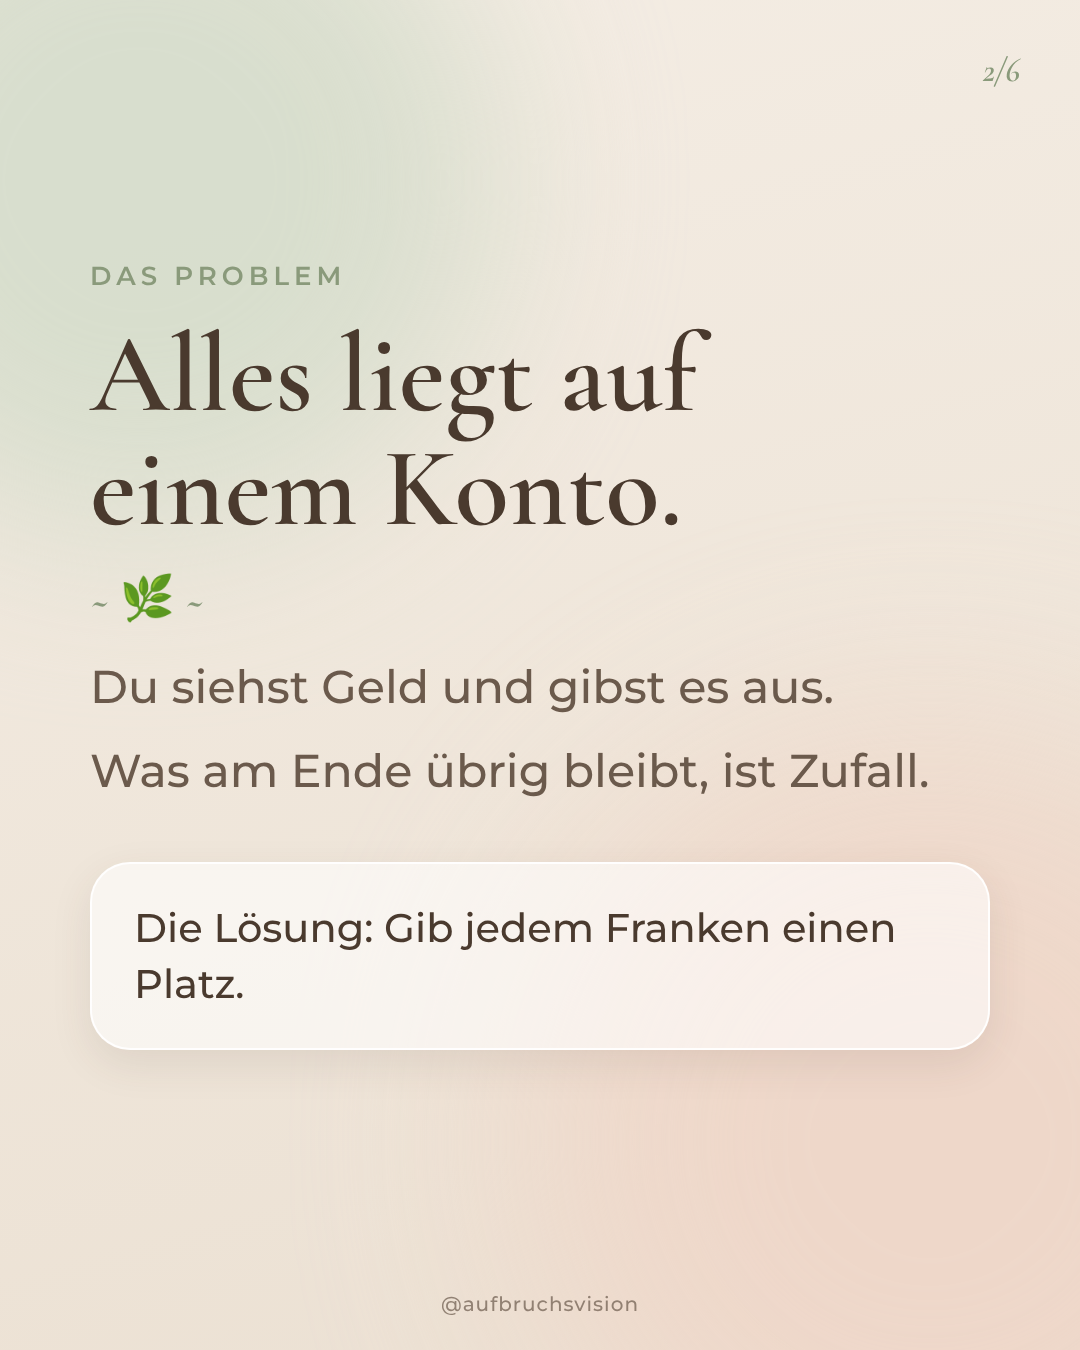
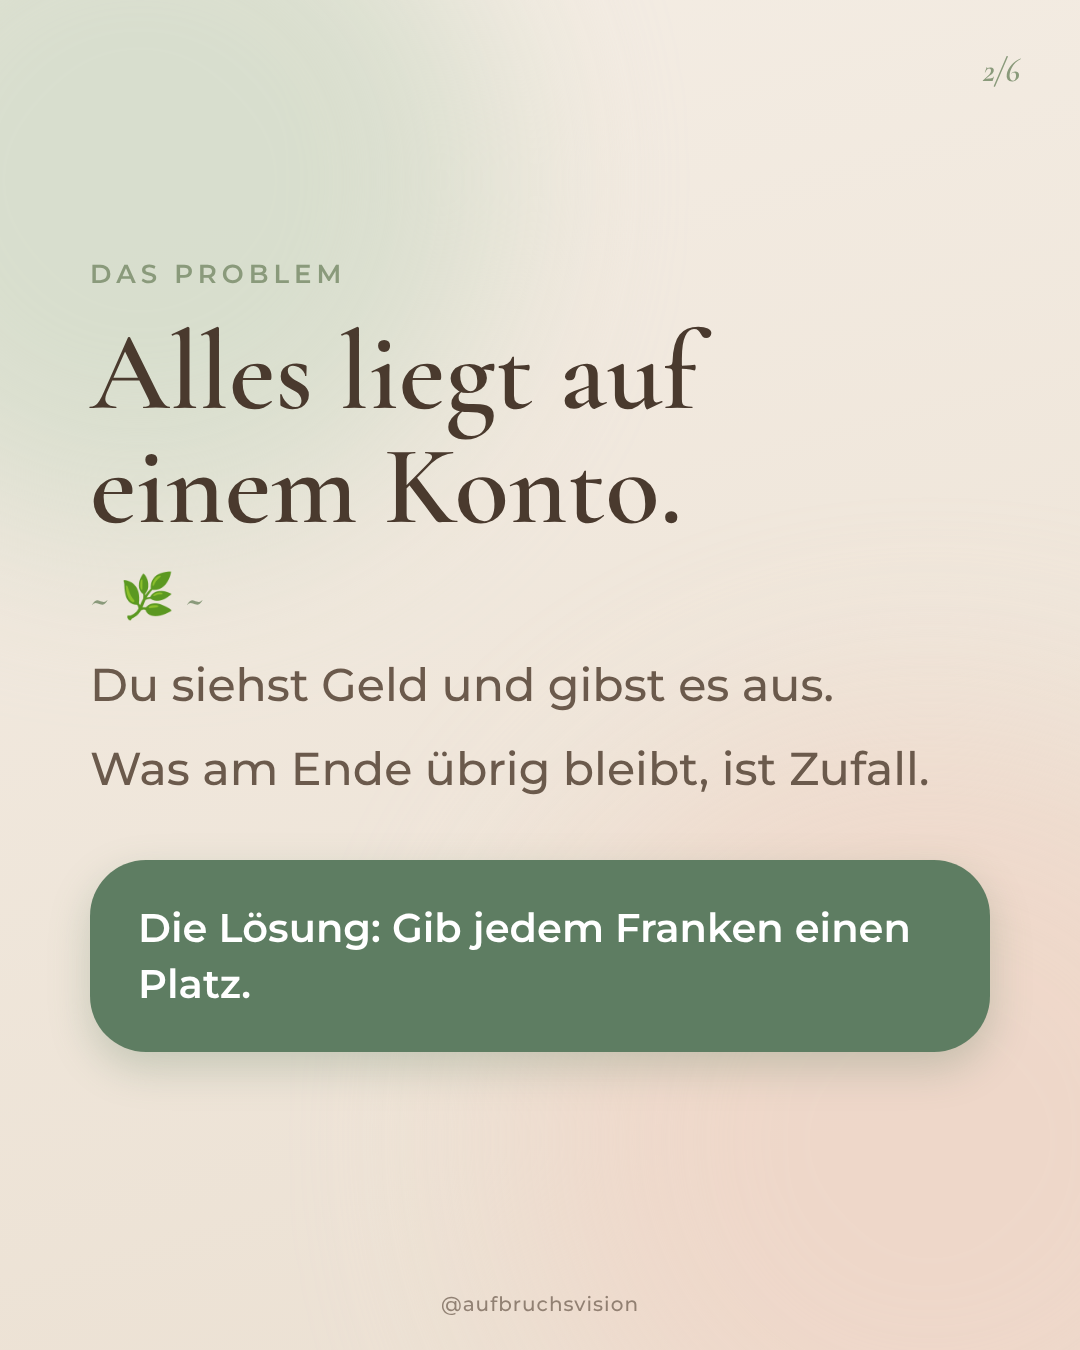
Weicher Stil: Foto im Blazer, runde sanftgrüne Tipp-Karten
Claude-Session: https://claude.ai/code/session_01GXNWXbXvS6wgjrcxeVLg42

diff --git a/remotion/src/WeichKarussell.tsx b/remotion/src/WeichKarussell.tsx
@@ -6,12 +6,13 @@ import { AbsoluteFill, Img, staticFile } from "remotion";
 import type { FinanzProps } from "./FinanzKarussell";
 
 // Stil «weich & natürlich» (4:5): warmer Sand, Salbei & Rosé als weiche Formen,
-// elegante Serifenschrift, Foto am See im Bogen. Nutzt dieselben Texte wie Stil A.
+// elegante Serifenschrift, runde grüne Tipp-Karten, Foto im Blazer im Bogen. Nutzt dieselben Texte wie Stil A.
 const SERIF = "'Cormorant Garamond', Georgia, serif";
 const SANS = "Montserrat, sans-serif";
 const BRAUN = "#4a3a2e";
 const TEXT = "#6b5a4c";
 const SALBEI = "#8a9a7b";
+const GRUEN = "#5e7d62"; // sanftes Grün für Tipp-Karten und Knöpfe
 
 // weiche, unscharfe Farbflecken im Hintergrund
 const Hintergrund: React.FC = () => (
@@ -28,12 +29,12 @@ const Ranke: React.FC = () => <div style={{ fontFamily: SERIF, fontSize: 44, col
 
 const Knopf: React.FC<{ text?: string }> = ({ text }) =>
   text ? (
-    <div style={{ fontFamily: SANS, fontWeight: 600, fontSize: 32, color: BRAUN, background: "rgba(255,255,255,0.65)", border: "2px solid rgba(138,154,123,0.5)", padding: "18px 36px", borderRadius: 999, display: "inline-block" }}>
+    <div style={{ fontFamily: SANS, fontWeight: 600, fontSize: 32, color: "white", background: GRUEN, boxShadow: "0 10px 26px rgba(94,125,98,0.3)", padding: "20px 40px", borderRadius: 999, display: "inline-block" }}>
       {text}
     </div>
   ) : null;
 
-// Foto am See in einem Bogen (oben rund), weich umrandet
+// Foto im Blazer in einem Bogen (oben rund), weich umrandet
 const Bogenfoto: React.FC<{ breite: number; hoehe: number; style?: React.CSSProperties }> = ({ breite, hoehe, style }) => (
   <div
     style={{
@@ -47,11 +48,9 @@ const Bogenfoto: React.FC<{ breite: number; hoehe: number; style?: React.CSSProp
       ...style,
     }}
   >
-    {/* Foto 1080×1920, ich sitze bei etwa 72 % / 74 %: doppelt so breit wie der Bogen, so verschoben, dass ich mittig unten sitze */}
-    <Img
-      src={staticFile("foto-hocke.jpg")}
-      style={{ position: "absolute", width: breite * 2, height: (breite * 2 * 1920) / 1080, left: breite / 2 - 0.72 * breite * 2, top: hoehe * 0.56 - (0.74 * breite * 2 * 1920) / 1080 }}
-    />
+    {/* Freisteller im Blazer (701×1024) auf weichem Salbei-Rosé-Verlauf, Gesicht im oberen Drittel */}
+    <div style={{ position: "absolute", inset: 0, background: "linear-gradient(180deg, #dfe6d6 0%, #f0ddd0 100%)" }} />
+    <Img src={staticFile("foto-blazer.png")} style={{ position: "absolute", width: breite * 1.2, left: -breite * 0.1, top: hoehe * 0.07 }} />
   </div>
 );
 
@@ -70,7 +69,7 @@ export const WeichKarussell: React.FC<FinanzProps> = ({ art, kicker, zahl, titel
     return (
       <AbsoluteFill>
         <Hintergrund />
-        <Bogenfoto breite={titelFolie ? 430 : 330} hoehe={titelFolie ? 620 : 430} style={{ right: titelFolie ? 70 : 60, bottom: titelFolie ? 120 : 110 }} />
+        <Bogenfoto breite={titelFolie ? 430 : 400} hoehe={titelFolie ? 620 : 540} style={{ right: titelFolie ? 70 : 60, bottom: titelFolie ? 120 : 110 }} />
         <div style={{ position: "absolute", left: 80, top: 120, width: titelFolie ? 900 : 920 }}>
           <Kicker text={kicker} />
           <div style={{ fontFamily: SERIF, fontWeight: 600, fontSize: titelFolie ? 108 : 92, lineHeight: 1.02, color: BRAUN, width: titelFolie ? 860 : 900 }}>{titel}</div>
@@ -109,15 +108,14 @@ export const WeichKarussell: React.FC<FinanzProps> = ({ art, kicker, zahl, titel
             style={{
               marginTop: 60,
               fontFamily: SANS,
-              fontWeight: 500,
+              fontWeight: 600,
               fontSize: 40,
               lineHeight: 1.4,
-              color: BRAUN,
-              background: "rgba(255,255,255,0.6)",
-              border: "2px solid rgba(255,255,255,0.9)",
-              boxShadow: "0 14px 40px rgba(74,58,46,0.1)",
-              padding: "36px 42px",
-              borderRadius: 40,
+              color: "white",
+              background: GRUEN,
+              boxShadow: "0 16px 40px rgba(94,125,98,0.28)",
+              padding: "40px 48px",
+              borderRadius: 56,
             }}
           >
             {tipp}

diff --git a/README.md b/README.md
@@ -172,7 +172,7 @@ auf Titel- und Schlussfolie. Thema: die 3-Konten-Methode. Vorlage für alle weit
 Immobilien-Karussells: `remotion/src/FinanzKarussell.tsx` (`DREI_KONTEN`),
 Bilder `remotion/out/drei-konten-1.png` bis `-6.png` (`npm run render:drei-konten`).
 Gleiche Texte im Stil «weich & natürlich» (warmer Sand, Salbei, Serifenschrift Cormorant Garamond,
-Foto am See im Bogen): `remotion/src/WeichKarussell.tsx`, Bilder `remotion/out/drei-konten-weich-1.png`
+runde grüne Tipp-Karten, Foto im Blazer im Bogen): `remotion/src/WeichKarussell.tsx`, Bilder `remotion/out/drei-konten-weich-1.png`
 bis `-6.png` (`npm run render:drei-konten-weich`).
 Stil-Vorschläge zum Vergleich: `remotion/out/stil-hell.png`, `-dunkel.png`, `-notiz.png`.
 
